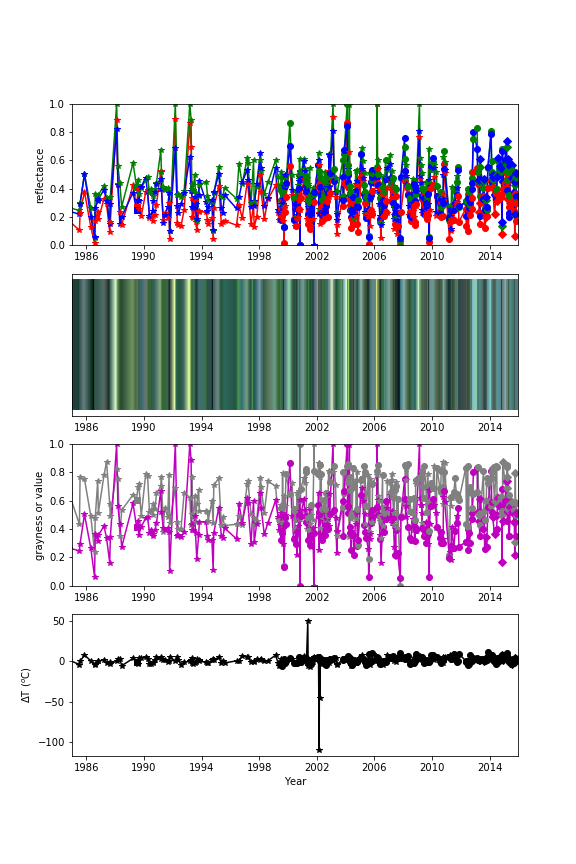
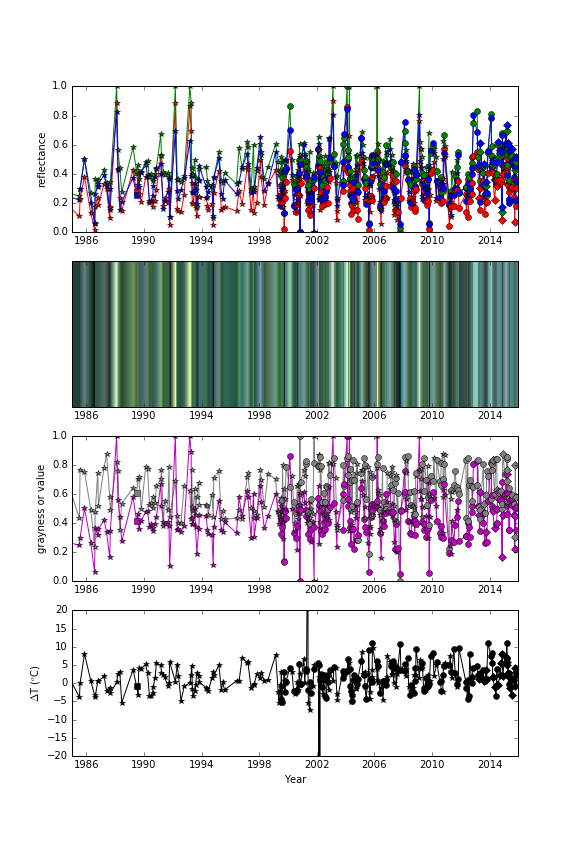
pushy

diff --git a/plot_all.py b/plot_all.py
@@ -43,7 +43,7 @@ def read_csv(target):
     print('File IO error for :'+target)
   
 
-target = 'Aoba'
+target = 'Yugama'
 
 # figure with subplots
 fig = plt.figure(figsize=(8,12))
@@ -71,5 +71,5 @@ if not os.path.exists(outdir):
   os.mkdir(outdir)
 os.chdir(outdir)
 plt.savefig(target+'.png')
-#plt.show()
+plt.show()
 #  plt.close(fig)

diff --git a/bin/plot_dT.py b/bin/plot_dT.py
@@ -16,7 +16,7 @@ def plot_dT(ax, data, start, stop):
   ax.set_xlim(start, stop)
   
   # set y limit?
-  #ax.set_ylim(0,0.6)
+  #ax.set_ylim(-20,20)
   
   # Trend line
   ax.plot(data['datetimes'],data['dT'],'k')  
